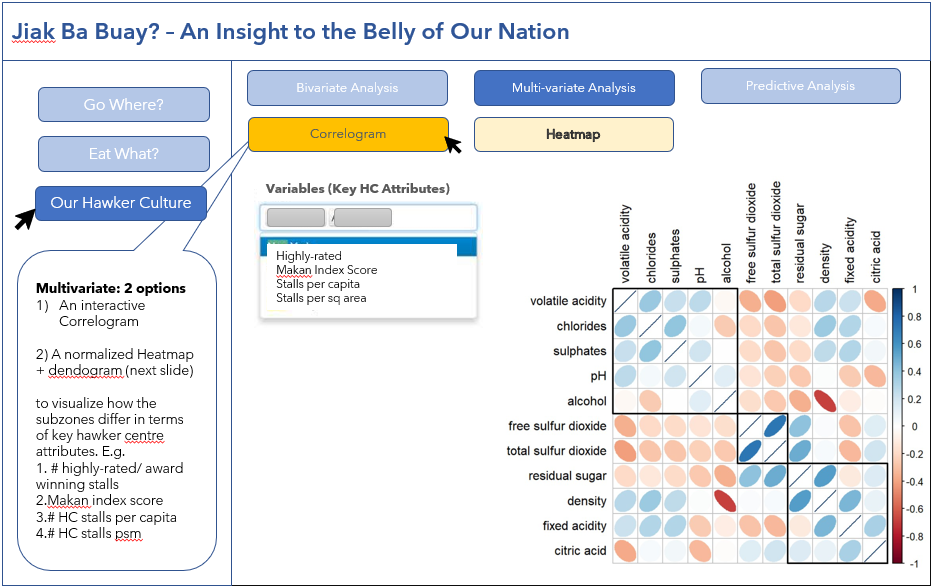
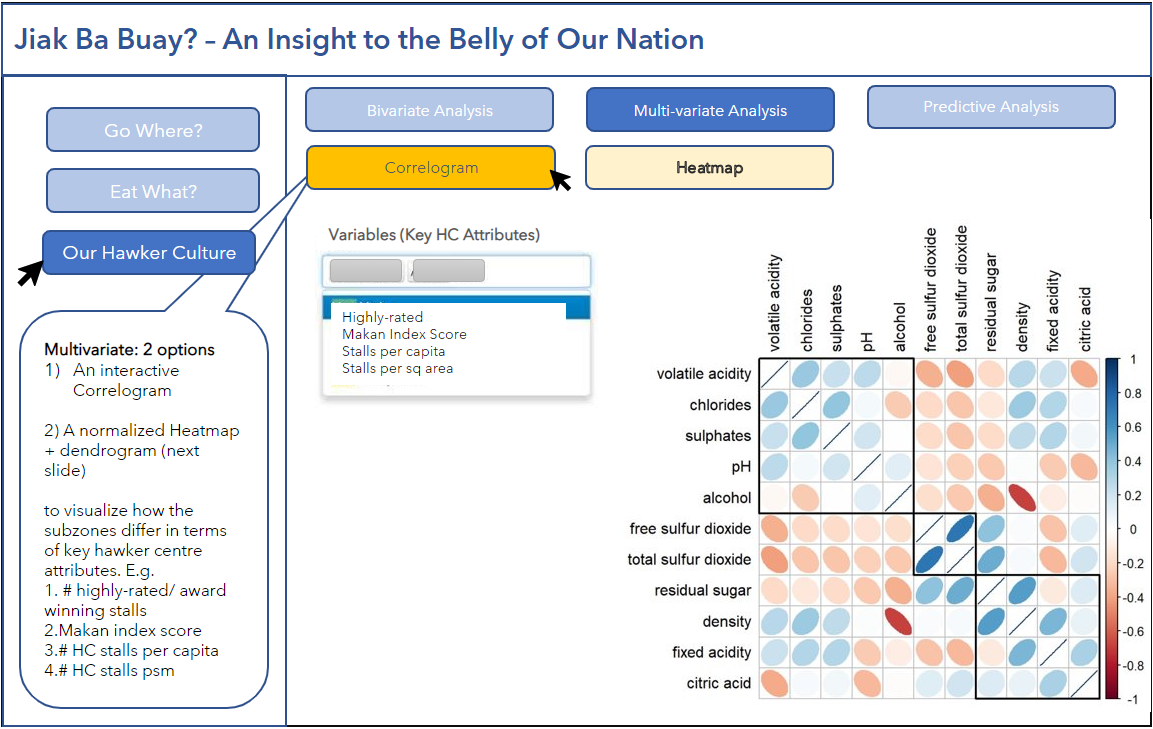
7th edition

diff --git a/_site/index.html b/_site/index.html
@@ -87,7 +87,7 @@ code span.wa { color: #5e5e5e; font-style: italic; } /* Warning */
 
 
   <!--radix_placeholder_meta_tags-->
-  <title>Group 1: Jiak Ba Buay – An insight into the Belly of our Nation</title>
+  <title>Group 1: Jiak Ba Buay – An Insight into the Belly of our Nation</title>
 
   <meta property="description" itemprop="description" content="Proposal for ISSS608 Visual Analytics and Applications Group Project"/>
 
@@ -98,7 +98,7 @@ code span.wa { color: #5e5e5e; font-style: italic; } /* Warning */
   <meta name="article:author" content="Reynard LAM, Melissa TAN, Ranice TAN"/>
 
   <!--  https://developers.facebook.com/docs/sharing/webmasters#markup -->
-  <meta property="og:title" content="Group 1: Jiak Ba Buay – An insight into the Belly of our Nation"/>
+  <meta property="og:title" content="Group 1: Jiak Ba Buay – An Insight into the Belly of our Nation"/>
   <meta property="og:type" content="article"/>
   <meta property="og:description" content="Proposal for ISSS608 Visual Analytics and Applications Group Project"/>
   <meta property="og:locale" content="en_US"/>
@@ -106,14 +106,14 @@ code span.wa { color: #5e5e5e; font-style: italic; } /* Warning */
 
   <!--  https://dev.twitter.com/cards/types/summary -->
   <meta property="twitter:card" content="summary"/>
-  <meta property="twitter:title" content="Group 1: Jiak Ba Buay – An insight into the Belly of our Nation"/>
+  <meta property="twitter:title" content="Group 1: Jiak Ba Buay – An Insight into the Belly of our Nation"/>
   <meta property="twitter:description" content="Proposal for ISSS608 Visual Analytics and Applications Group Project"/>
 
   <!--/radix_placeholder_meta_tags-->
   <!--radix_placeholder_rmarkdown_metadata-->
 
   <script type="text/json" id="radix-rmarkdown-metadata">
-  {"type":"list","attributes":{"names":{"type":"character","attributes":{},"value":["title","description","author","date"]}},"value":[{"type":"character","attributes":{},"value":["Jiak Ba Buay – An insight into the Belly of our Nation"]},{"type":"character","attributes":{},"value":["Proposal for ISSS608 Visual Analytics and Applications Group Project \n"]},{"type":"list","attributes":{},"value":[{"type":"list","attributes":{"names":{"type":"character","attributes":{},"value":["name","affiliation","affiliation_url"]}},"value":[{"type":"character","attributes":{},"value":["Reynard LAM, Melissa TAN, Ranice TAN"]},{"type":"character","attributes":{},"value":["SMU MITB"]},{"type":"character","attributes":{},"value":["https://scis.smu.edu.sg/master-it-business"]}]}]},{"type":"character","attributes":{},"value":["2022-03-06"]}]}
+  {"type":"list","attributes":{"names":{"type":"character","attributes":{},"value":["title","description","author","date"]}},"value":[{"type":"character","attributes":{},"value":["Jiak Ba Buay – An Insight into the Belly of our Nation"]},{"type":"character","attributes":{},"value":["Proposal for ISSS608 Visual Analytics and Applications Group Project \n"]},{"type":"list","attributes":{},"value":[{"type":"list","attributes":{"names":{"type":"character","attributes":{},"value":["name","affiliation","affiliation_url"]}},"value":[{"type":"character","attributes":{},"value":["Reynard LAM, Melissa TAN, Ranice TAN"]},{"type":"character","attributes":{},"value":["SMU MITB"]},{"type":"character","attributes":{},"value":["https://scis.smu.edu.sg/master-it-business"]}]}]},{"type":"character","attributes":{},"value":["2022-03-06"]}]}
   </script>
   <!--/radix_placeholder_rmarkdown_metadata-->
   <!--radix_placeholder_navigation_in_header-->
@@ -2061,7 +2061,7 @@ code span.wa { color: #5e5e5e; font-style: italic; } /* Warning */
 <!--radix_placeholder_front_matter-->
 
 <script id="distill-front-matter" type="text/json">
-{"title":"Jiak Ba Buay – An insight into the Belly of our Nation","description":"Proposal for ISSS608 Visual Analytics and Applications Group Project","authors":[{"author":"Reynard LAM, Melissa TAN, Ranice TAN","authorURL":"#","affiliation":"SMU MITB","affiliationURL":"https://scis.smu.edu.sg/master-it-business","orcidID":""}],"publishedDate":"2022-03-06T00:00:00.000+08:00","citationText":"TAN, 2022"}
+{"title":"Jiak Ba Buay – An Insight into the Belly of our Nation","description":"Proposal for ISSS608 Visual Analytics and Applications Group Project","authors":[{"author":"Reynard LAM, Melissa TAN, Ranice TAN","authorURL":"#","affiliation":"SMU MITB","affiliationURL":"https://scis.smu.edu.sg/master-it-business","orcidID":""}],"publishedDate":"2022-03-06T00:00:00.000+08:00","citationText":"TAN, 2022"}
 </script>
 
 <!--/radix_placeholder_front_matter-->
@@ -2083,7 +2083,7 @@ code span.wa { color: #5e5e5e; font-style: italic; } /* Warning */
 <!--/radix_placeholder_site_before_body-->
 
 <div class="d-title">
-<h1>Jiak Ba Buay – An insight into the Belly of our Nation</h1>
+<h1>Jiak Ba Buay – An Insight into the Belly of our Nation</h1>
 <!--radix_placeholder_categories-->
 <!--/radix_placeholder_categories-->
 <p><p>Proposal for ISSS608 Visual Analytics and Applications Group Project</p></p>
@@ -2123,7 +2123,7 @@ code span.wa { color: #5e5e5e; font-style: italic; } /* Warning */
 <li>Hawker stall tender bids were obtained from the National Environment Agency’s website, <a href="https://www.nea.gov.sg/corporate-functions/resources/tender-notices">NEA</a>.</li>
 </ol>
 <h1 id="methodology">5. Methodology</h1>
-<p>Our group intends to conduct descriptive, inferential and time-series analysis on the datasets in order to glean important information about hawker centres as well as the possible correlations that are able to be drawn from it.</p>
+<p>The group intends to conduct descriptive, inferential and time-series analysis on the datasets in order to glean important information about hawker centres as well as the possible correlations that are able to be drawn from it.</p>
 <h2 id="descriptive-analysis">Descriptive Analysis</h2>
 <p>In this section, an overall visualisation will be created to showcase general hawker information such as distribution of hawker centres in Singapore by planning area as well as top recommended hawker stalls in that area.</p>
 <div class="layout-chunk" data-layout="l-body">
@@ -2144,8 +2144,11 @@ code span.wa { color: #5e5e5e; font-style: italic; } /* Warning */
 <li>Population: No. of elderly/ young, Percentage of elderly/ young</li>
 <li>Housing type: Public (Small), Public (Large), Private</li>
 <li>Affordability: Makan Index</li>
+</ol>
+<p>(<em>The Makan Index is a base index that compares prices across geographical areas, using the price of a basket of hawker food items across different areas of Singapore.</em>)</p>
+<ol start="4" type="1">
 <li>Accessibility: No. of hawker stalls per capita/ square area</li>
-<li>Rating: Average Rating</li>
+<li>Rating: Average Rating (0 - 100%, with 100% being the most positive)</li>
 </ol>
 <div class="layout-chunk" data-layout="l-body">
 <p><img src="multivariate.png" width="3500px" style="float:left; padding:10px" /></p>
